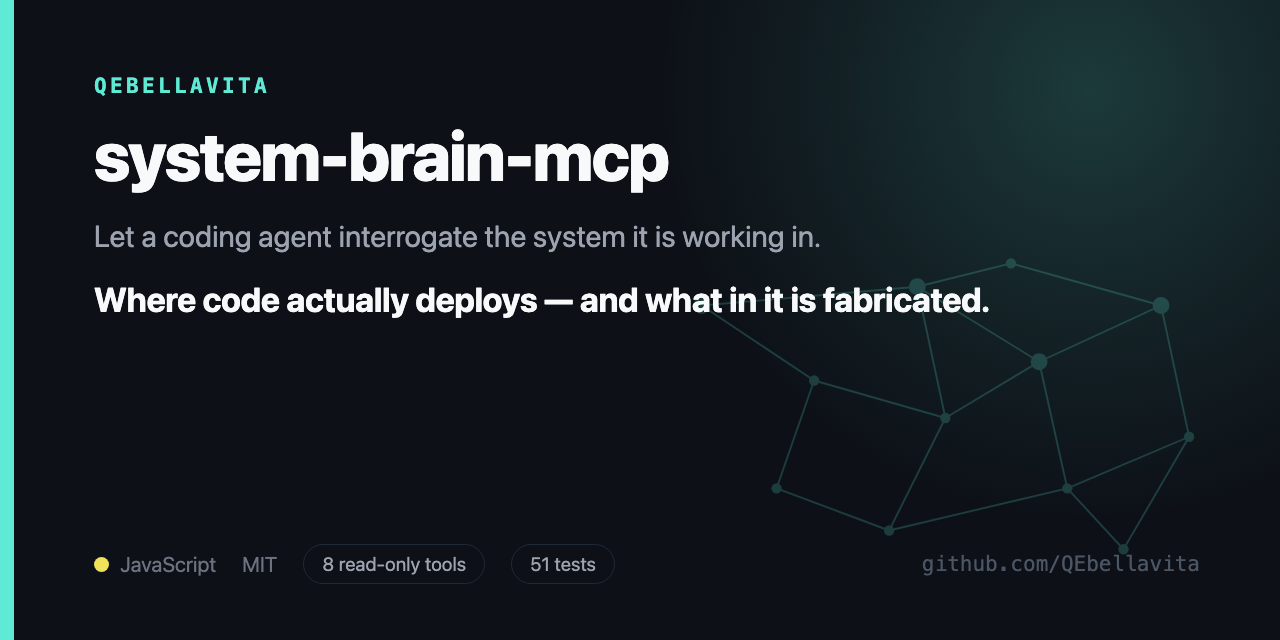
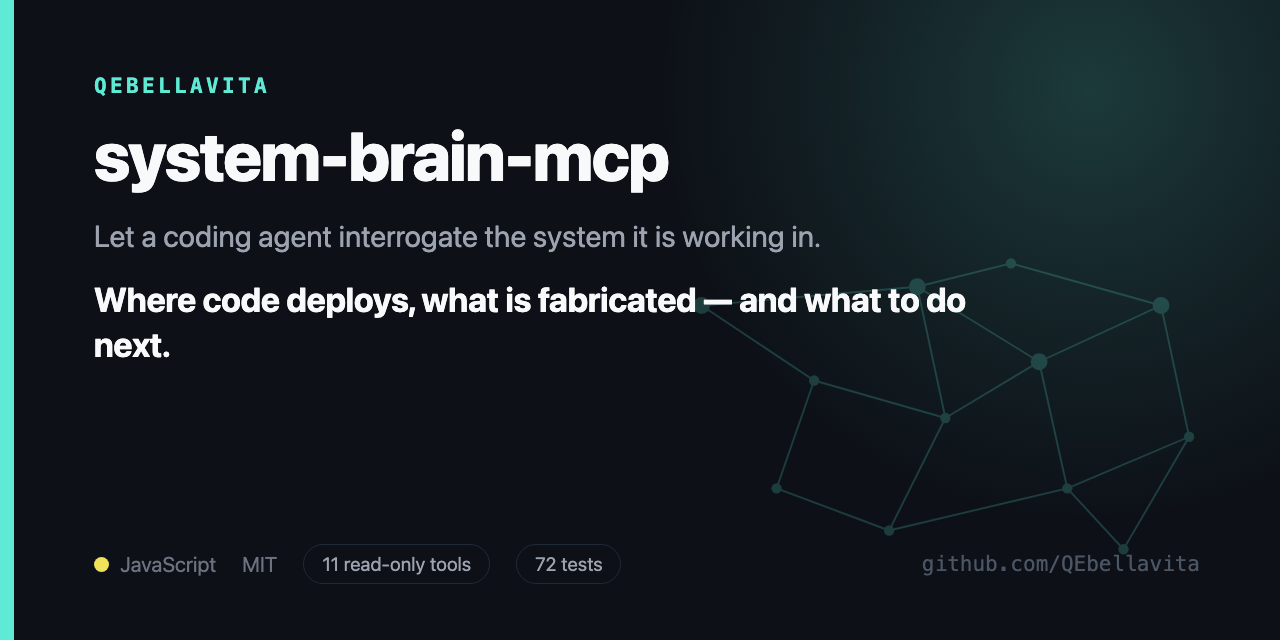
chore(profile): system-brain-mcp now 11 tools / 72 tests with the reasoning layer

diff --git a/README.md b/README.md
@@ -27,7 +27,7 @@ and a pre-registered result that came back at the chance ceiling and stayed ther
 
 <div align="center">
   <a href="https://github.com/QEbellavita/eeg-affect-honest-negatives"><img src="https://raw.githubusercontent.com/QEbellavita/QEbellavita/main/assets/repo-card-eeg.svg?v=2" alt="eeg-affect-honest-negatives — pre-registered spikes finding EEG affect sits at the chance ceiling, including at N=123. Python, MIT, 3 datasets." width="47%"></a>
-  <a href="https://github.com/QEbellavita/system-brain-mcp"><img src="https://raw.githubusercontent.com/QEbellavita/QEbellavita/main/assets/repo-card-brain.svg?v=2" alt="system-brain-mcp — read-only MCP tools for where code deploys, what is fabricated, whether the feedback loop closes. JavaScript, MIT, 8 tools and 51 tests." width="47%"></a>
+  <a href="https://github.com/QEbellavita/system-brain-mcp"><img src="https://raw.githubusercontent.com/QEbellavita/QEbellavita/main/assets/repo-card-brain.svg?v=2" alt="system-brain-mcp — read-only MCP tools for where code deploys, what is fabricated, whether the feedback loop closes, what to do next. JavaScript, MIT, 11 tools and 72 tests." width="47%"></a>
   <a href="https://github.com/QEbellavita/claude-honest-engineering-skills"><img src="https://raw.githubusercontent.com/QEbellavita/QEbellavita/main/assets/repo-card-skills.svg?v=2" alt="claude-honest-engineering-skills — nine skills that make a coding agent check its work. Markdown, MIT." width="47%"></a>
   <a href="https://github.com/QEbellavita/rppg10-eval-harness"><img src="https://raw.githubusercontent.com/QEbellavita/QEbellavita/main/assets/repo-card-harness.svg?v=2" alt="rppg10-eval-harness — camera heart-rate extraction scored against synchronized ECG. Python, Apache-2.0, 14 test modules." width="47%"></a>
   <a href="https://github.com/QEbellavita/rppg-skin-tone-equity"><img src="https://raw.githubusercontent.com/QEbellavita/QEbellavita/main/assets/repo-card-equity.svg?v=2" alt="rppg-skin-tone-equity — Fitzpatrick-stratified error for cross-dataset deep rPPG. Python, MIT." width="47%"></a>
@@ -72,12 +72,14 @@ reproduces that result first, to prove a null isn't just a broken pipeline.
 
 ### Tools
 
-**[system-brain-mcp](https://github.com/QEbellavita/system-brain-mcp)** — eight read-only
+**[system-brain-mcp](https://github.com/QEbellavita/system-brain-mcp)** — eleven read-only
 MCP tools that let a coding agent interrogate the system it's working in: where this code
 *actually* deploys, what in it is fabricated, what's still open, whether the learning loop
-closes. The deploy tool doesn't just read the config file — it cross-checks the declared
-target against every platform config in the repo and reports the strays, because a leftover
-project on another platform is the usual cause of "production keeps reverting".
+closes — and what the evidence says to do next. `brain_recommend` is a deterministic rule
+table over the brain's own evidence: degraded sources produce fewer recommendations, never
+invented ones. The deploy tool cross-checks the declared target against every platform
+config in the repo and reports the strays, because a leftover project on another platform
+is the usual cause of "production keeps reverting".
 
 **[obsidian-icloud-mcp](https://github.com/QEbellavita/obsidian-icloud-mcp)** — an MCP server
 for Obsidian vaults that survives iCloud eviction. The naive version hangs forever on
